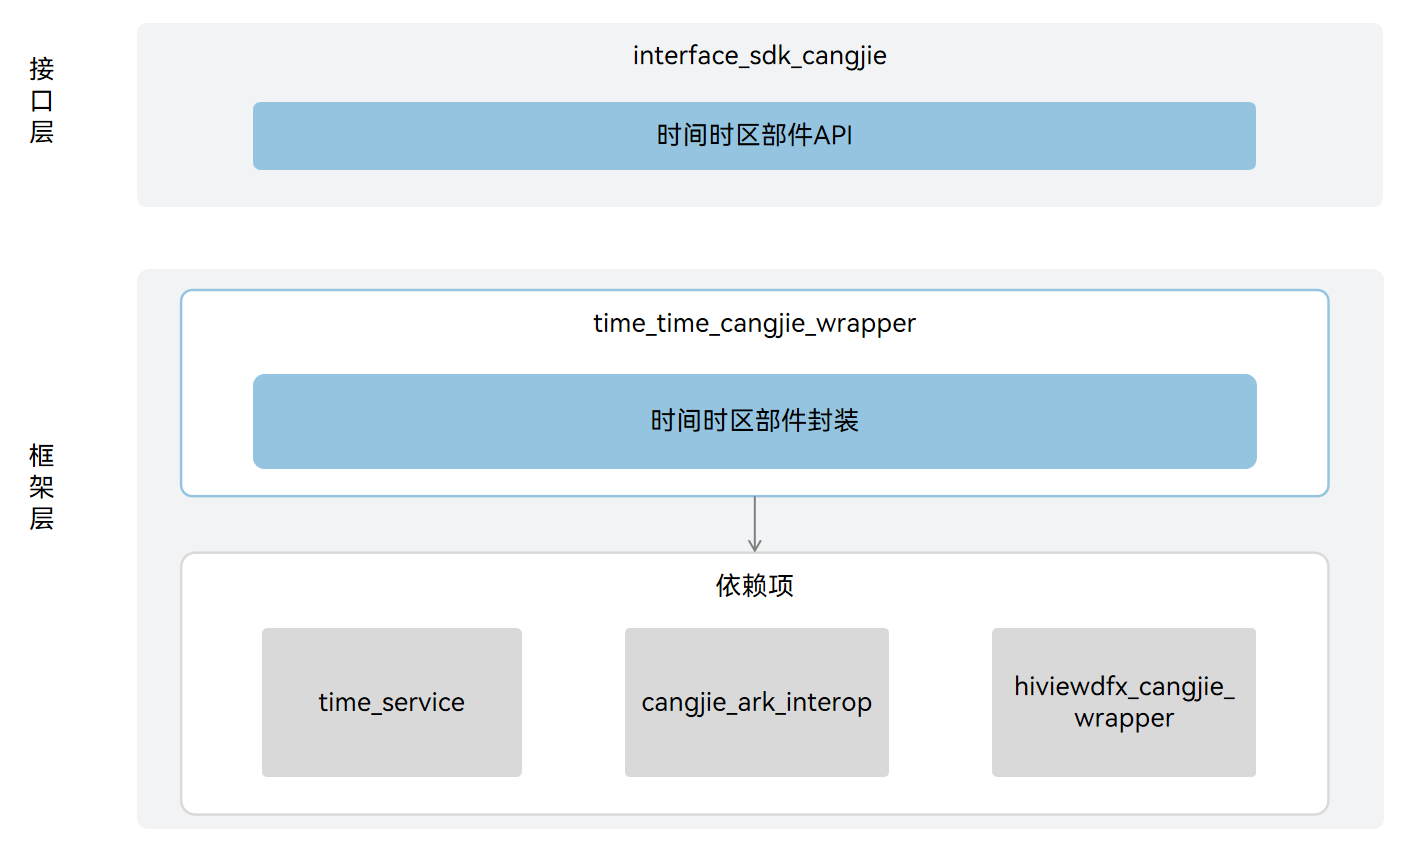
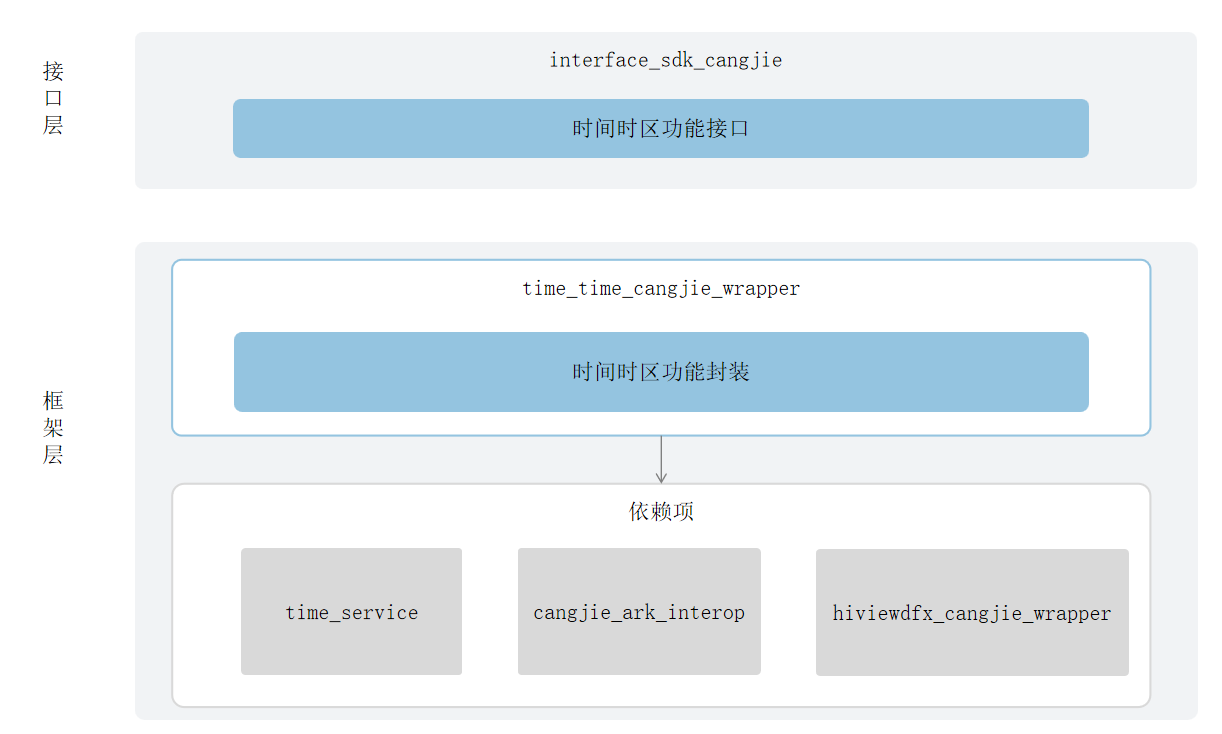
fix readme

diff --git a/README_zh.md b/README_zh.md
@@ -2,29 +2,25 @@
 
 ## 简介
 
-时间时区仓颉封装是 OpenHarmony 上面向开发者提供使用仓颉语言进行应用开发时的时间时区相关能力。时间时区子系统为 OpenHarmony 系统提供了管理系统时间时区和定时的能力。
-
-当前时间时区仓颉封装支持standard设备，只提供获取时间时区的能力。
+时间时区仓颉封装是 OpenHarmony 上面向开发者提供使用仓颉语言进行应用开发时的时间时区相关能力，为 OpenHarmony 系统提供了管理系统时间时区和定时的能力，且仅支持standard设备。
 
 ## 系统架构
 
-**图 1**  时间时区仓颉架构图
+**图 1**  时间时区仓颉封装架构图
 
 ![时间时区仓颉架构](figures/time_cangjie_wrapper_architecture.png)
 
-如架构图所示：
-
 接口层：
 
-- 时间时区部件API：提供系统时间和系统时区功能。开发者可以获取系统时间及系统时区。
+- 时间时区功能接口：提供系统时间和系统时区功能。开发者可以获取系统时间及系统时区。
 
 框架层：
 
-- 时间时区部件封装：该封装层是对获取系统时间及系统时区能力进行仓颉封装实现。
+- 时间时区功能封装：该封装层是对获取系统时间及系统时区能力进行仓颉封装实现。
 
 架构图中的依赖部件引入说明：
 
-- time_service：负责提供时间时区基础功能，封装C语言接口提供给仓颉进行互操作。
+- time_service：负责提供时间时区基础功能。
 - cangjie_ark_interop：负责提供仓颉注解类定义，用于对API进行标注，以及提供抛向用户的BusinessException异常类定义。
 - hiviewdfx_cangjie_wrapper：负责提供日志接口，用于在关键路径处打印日志。
 
@@ -47,7 +43,7 @@ base/time/time_cangjie_wrapper
 - 获取自系统启动以来经过的时间
 - 获取系统时区
 
-时间时区相关API请参见[时间时区API参考](https://gitcode.com/openharmony-sig/arkcompiler_cangjie_ark_interop/blob/master/doc/API_Reference/source_zh_cn/apis/BasicServicesKit/cj-apis-system_date_time.md)。
+时间时区相关API请参见[时间时区API参考](https://gitcode.com/openharmony-sig/arkcompiler_cangjie_ark_interop/blob/master/doc/API_Reference/source_zh_cn/apis/BasicServicesKit/cj-apis-system_date_time.md)，相关指南请参见[时间时区指南](https://gitcode.com/openharmony-sig/arkcompiler_cangjie_ark_interop/blob/master/doc/Dev_Guide/source_zh_cn/system_date_time/cj-system_data_time.md) 。
 
 ## 约束
 
